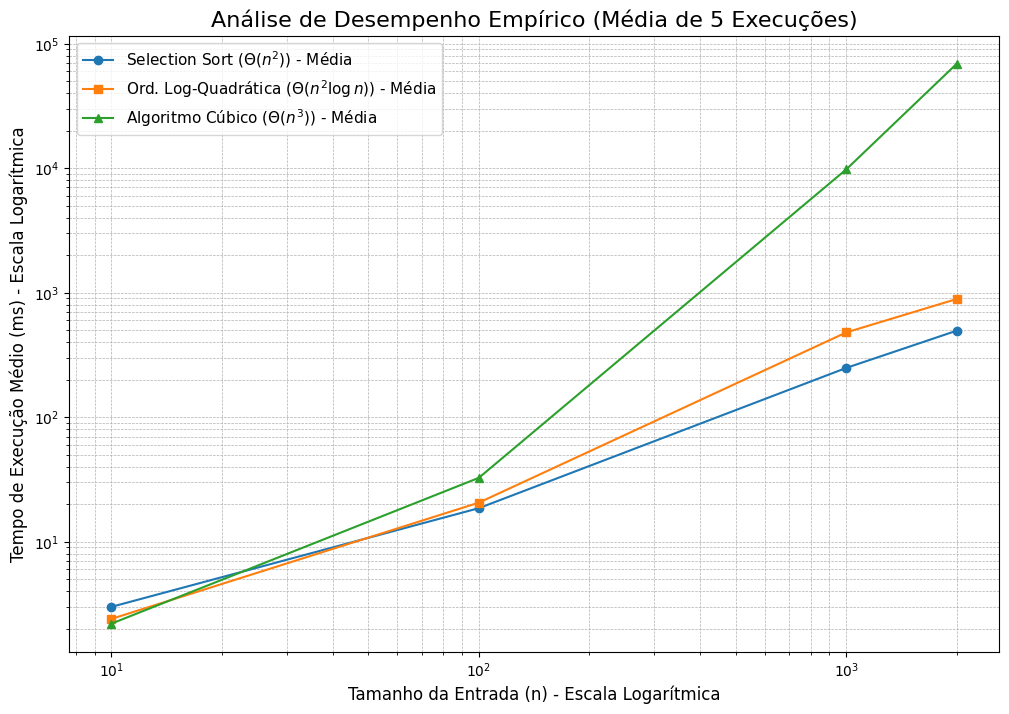
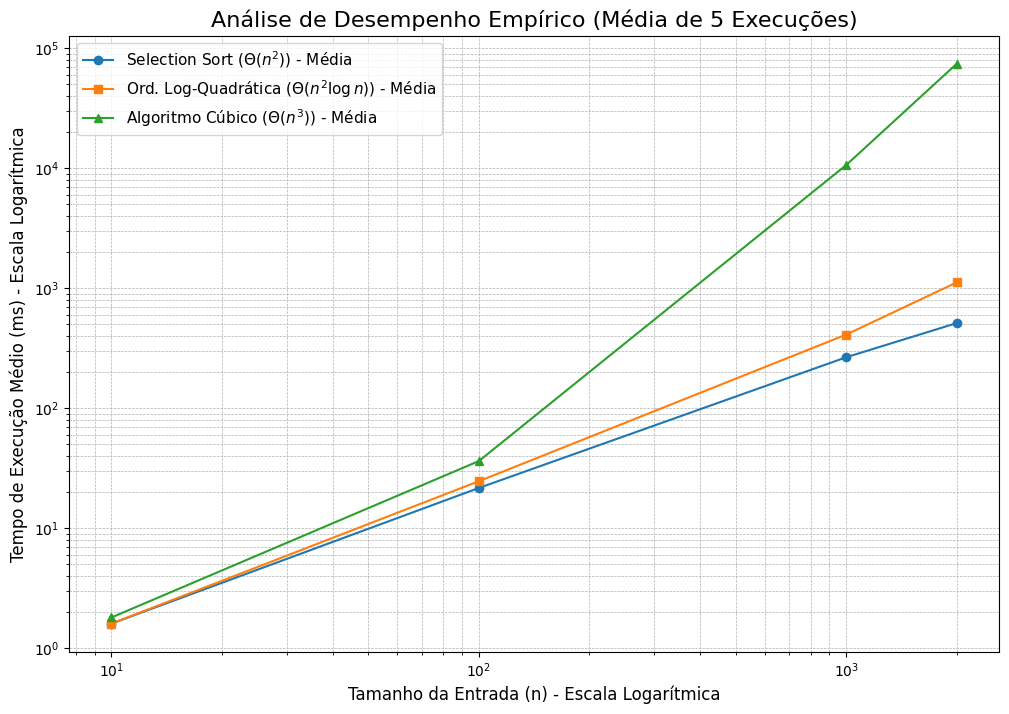
adicionando mais resultados

diff --git a/AlgoritmosOrdenacao.java b/AlgoritmosOrdenacao.java
@@ -59,7 +59,6 @@ public class AlgoritmosOrdenacao {
             return;
         }
         int n = array.length;
-        // long count = 0;
 
         for (int i = 0; i < n - 1; i++) {
             int indiceDoMinimo = i;
@@ -69,7 +68,6 @@ public class AlgoritmosOrdenacao {
                 for (int k = 0; k < n; k++) {
                     AtomicLong count = new AtomicLong(0);
                     count.incrementAndGet();
-                    // count += (k % 101) - (count & 1) * 10000;
                 }
 
                 if (array[j] < array[indiceDoMinimo]) {
@@ -95,7 +93,6 @@ public class AlgoritmosOrdenacao {
         }
         int n = array.length;
         final int espera = (int) (Math.log(n) / Math.log(2)) + 1;
-        // long count = 0;
 
         for (int i = 0; i < n - 1; i++) {
             int indiceDoMinimo = i;
@@ -105,7 +102,6 @@ public class AlgoritmosOrdenacao {
                 for (int k = 0; k < espera; k++) {
                     AtomicLong count = new AtomicLong(0);
                     count.incrementAndGet();
-                    // count += (k % 101) - (count & 1) * 10000;
                 }
 
                 if (array[j] < array[indiceDoMinimo]) {
@@ -296,6 +292,13 @@ public class AlgoritmosOrdenacao {
         }
     }
 
+    /**
+     * Ordena arrays de tamanhos especificados e gera um arquivo CSV com os
+     * resultados dos tempos de execução.
+     * 
+     * @param tamanhos
+     * @param nomeArquivo
+     */
     public static void ordenaEGeraArquivoCsv(int[] tamanhos, String nomeArquivo) {
         try (BufferedWriter bw = new BufferedWriter(new FileWriter(nomeArquivo))) {
             bw.write("Tamanho,Tempo(ms)\n");
@@ -327,10 +330,11 @@ public class AlgoritmosOrdenacao {
         float[] array = lerArrayDeArquivo(args[0]);
         selectionSortLogQuadratico(array);
 
-        // ordenaEGeraArquivoCsv(new int[] { 10, 100, 1000, 10000 }, "resultados.csv");
         // for (int i = 1; i < 6; i++) {
+        // ordenaEGeraArquivoCsv(new int[] { 100, 1000, 10000, 20000 },
+        // "resultadosLogQuadratico_" + i + ".csv");
         // executarAnaliseEmpirica(new int[] { 10, 100, 1000, 2000 },
-        // "resultados_ordenadoDecrescente_" + i + ".csv");
+        // "resultadosv2_" + i + ".csv");
         // }
     }
 }
